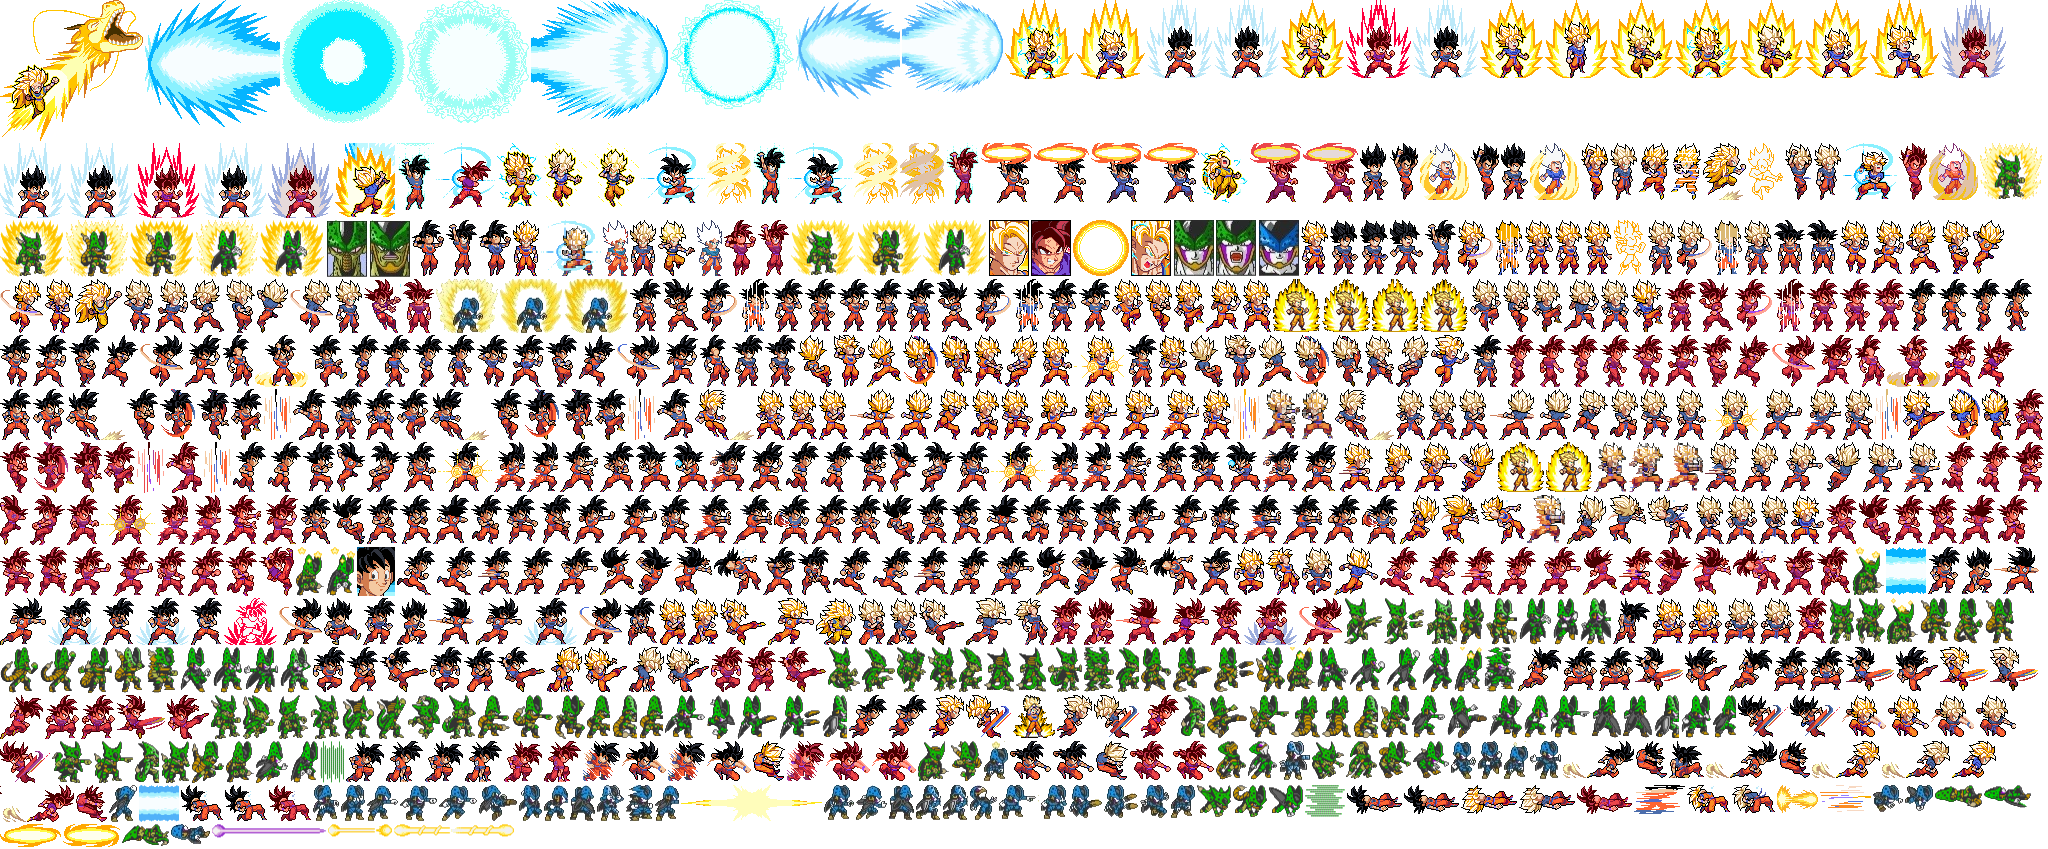
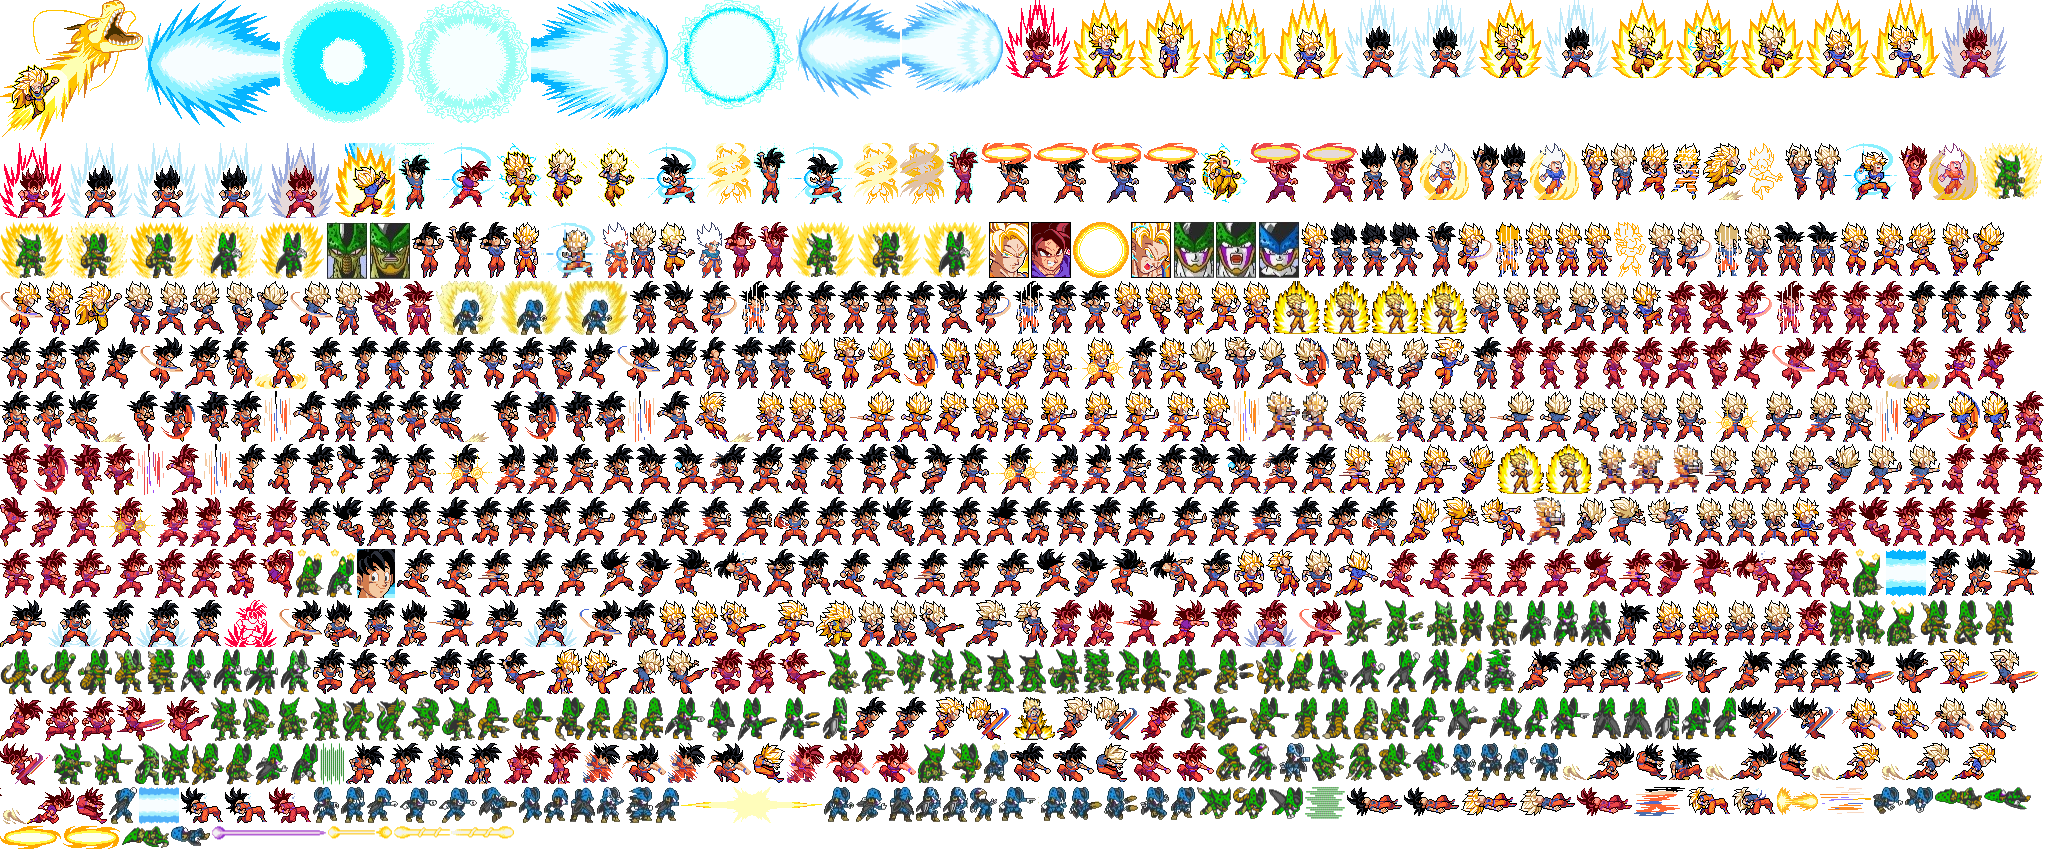
Auras filled: frames can be cut with their white glow sealed inside the flame outline (seal), used for the torn-gi Super Saiyan flames and the Kaioken aura, which were see-through where the outline had gaps

diff --git a/sheets.js b/sheets.js
@@ -82,7 +82,7 @@ function rawSheet(img) {
 // (so enclosed white like beam cores survives), trim, and work out the body anchor.
 // (hollow: all of the background colour goes, not just what the edges reach: an aura drawn as flames
 // round a white middle)
-function cutOut(sheet, [sx, sy, w, h], seed, hollow) {
+function cutOut(sheet, [sx, sy, w, h], seed, hollow, seal = 0) {
   const cv = document.createElement('canvas'); cv.width = w; cv.height = h;
   const cx = cv.getContext('2d', { willReadFrequently: true });
   cx.drawImage(sheet.canvas, sx, sy, w, h, 0, 0, w, h);
@@ -90,7 +90,21 @@ function cutOut(sheet, [sx, sy, w, h], seed, hollow) {
   const clear = new Uint8Array(w * h), st = [];
   // the background is white, unless the sheet says otherwise (then: anything close to its colour)
   const bg = sheet.bg, bgAt = bg ? (dd, k) => Math.abs(dd[k] - bg[0]) + Math.abs(dd[k + 1] - bg[1]) + Math.abs(dd[k + 2] - bg[2]) < 30 : isBg;
-  const push = (x, y) => { const i = y * w + x; if (!clear[i] && bgAt(d, i * 4)) { clear[i] = 1; st.push(i); } };
+  // seal: an aura's white glow inside a flame outline with small gaps in it. The fill from the edges may
+  // not pass within `seal` pixels of anything drawn (so it can't leak in through a gap), then grows back
+  // over the background it stopped short of
+  let wall = null;
+  if (seal) {
+    const drawn = new Uint8Array(w * h);
+    for (let i = 0; i < w * h; i++) drawn[i] = bgAt(d, i * 4) ? 0 : 1;
+    wall = drawn;
+    for (let k = 0; k < seal; k++) {
+      const next = wall.slice();
+      for (let i = 0; i < w * h; i++) if (wall[i]) { const x = i % w; if (x > 0) next[i - 1] = 1; if (x + 1 < w) next[i + 1] = 1; if (i >= w) next[i - w] = 1; if (i + w < w * h) next[i + w] = 1; }
+      wall = next;
+    }
+  }
+  const push = (x, y) => { const i = y * w + x; if (!clear[i] && bgAt(d, i * 4) && !(wall && wall[i])) { clear[i] = 1; st.push(i); } };
   if (sheet.keyed || hollow) for (let i = 0; i < w * h; i++) if (bgAt(d, i * 4)) clear[i] = 1;
   if (seed.includes('t')) for (let x = 0; x < w; x++) push(x, 0);
   if (seed.includes('b')) for (let x = 0; x < w; x++) push(x, h - 1);
@@ -100,6 +114,11 @@ function cutOut(sheet, [sx, sy, w, h], seed, hollow) {
     const i = st.pop(), x = i % w, y = (i / w) | 0;
     if (x + 1 < w) push(x + 1, y); if (x > 0) push(x - 1, y);
     if (y + 1 < h) push(x, y + 1); if (y > 0) push(x, y - 1);
+  }
+  for (let k = 0; k < seal; k++) {
+    const grow = [];
+    for (let i = 0; i < w * h; i++) if (!clear[i] && bgAt(d, i * 4)) { const x = i % w; if ((x > 0 && clear[i - 1]) || (x + 1 < w && clear[i + 1]) || (i >= w && clear[i - w]) || (i + w < w * h && clear[i + w])) grow.push(i); }
+    grow.forEach(i => clear[i] = 1);
   }
   // the sheet was a screenshot, so peel off the pale fringe left around each sprite
   for (let pass = 0; pass < 2; pass++) {
@@ -163,7 +182,7 @@ const Sheets = {
       if (r.w) w = Math.min(w, r.w);
       if (r.y) { y += r.y; h -= r.y; }
       if (r.h) h = Math.min(h, r.h);
-      const out = cutOut(this.sheets[sheet], [x, y, w, h], r.seed || 'tblr', r.hollow);
+      const out = cutOut(this.sheets[sheet], [x, y, w, h], r.seed || 'tblr', r.hollow, r.seal);
       if (r.ax != null) out.ax = r.ax * out.width;
       out.k = r.k || 1; // drawn this much bigger (a sheet drawn at a smaller size than the rest)
       this.cache.set(key, out);

diff --git a/data.js b/data.js
@@ -106,7 +106,7 @@ twins(['9.0', '9.1', '9.2', { id: '9.3', w: 31 }, '9.4', { id: '9.5', w: 31 }], 
 // the Kaioken's red flames (two frames), and the frames around them
 // (hollow: the white inside the flames is see-through, as it is on the sheet)
 // (solid: cut see-through, the middle of the flames looked patchy)
-const KAIO_AURA = [GB(288, 1281, 70, 78), GB(361, 1278, 70, 82)];
+const KAIO_AURA = [{ ...GB(288, 1281, 70, 78), seal: 4 }, { ...GB(361, 1278, 70, 82), seal: 4 }];
 const KAIO_STANCE = GB(441, 1310, 31, 48);
 // the moment the Kaioken bursts out: a white flash of him in a red outline (the sheet's frame, its white
 // middle kept: cut see-through, only broken scraps of the outline were left)
@@ -243,7 +243,7 @@ GOKU_BASE.transformQuick = nativeFr([TURN[2], TURN[3], TURN[4], TURN[5], TURN[6]
 // gold flames twice
 const SST = (x, y, w, h) => ({ sheet: 'ss', rect: [x, y, w, h] });
 const TORN_TURN = [SST(61, 131, 32, 56), SST(106, 131, 34, 56), SST(161, 127, 29, 60), SST(211, 128, 28, 59), SST(261, 130, 29, 57),
-  SST(311, 130, 29, 56), SST(364, 130, 36, 57), SST(417, 129, 51, 58), SST(489, 122, 45, 64), SST(559, 107, 67, 80), SST(637, 107, 65, 80)];
+  SST(311, 130, 29, 56), SST(364, 130, 36, 57), SST(417, 129, 51, 58), SST(489, 122, 45, 64), { ...SST(559, 107, 67, 80), seal: 2 }, { ...SST(637, 107, 65, 80), seal: 2 }];
 const GOKU_BASE_T = formAnims(GOKU_MOVES, 'torn');
 Object.assign(GOKU_BASE_T, {
   spirit: nativeFr([GBN(77, 1988, 37, 49), GBN(128, 1984, 32, 53), GBN(175, 1982, 31, 56), GBN(241, 1970, 39, 69)], { fps: 6, loop: false }),
@@ -251,7 +251,7 @@ Object.assign(GOKU_BASE_T, {
   // the Spirit Bomb that turns him Super Saiyan: as it lands the gold outline bursts off him and the
   // flames go up (the frames after the throw on the sheet)
   // (white hair, the gold swirl, then the gold flames in the air: the sheets' own frames)
-  // (the flames solid: cut see-through their middle looked patchy)
+  // (the flames solid, their white middle sealed in: see-through it looked patchy)
   spiritSsj: nativeFr([TORN_TURN[7], TORN_TURN[7], TORN_TURN[8], TORN_TURN[8], GB(463, 1958, 65, 82), GB(463, 1958, 65, 82)], { fps: 5, loop: false }),
   transform: nativeFr([TORN_TURN[0], TORN_TURN[0], ...TORN_TURN, TORN_TURN[10]], { fps: 8, loop: false }),
   transformQuick: nativeFr([...TORN_TURN.slice(3), TORN_TURN[10]], { fps: 9, loop: false }),

diff --git a/index.html b/index.html
@@ -40,29 +40,29 @@
 <body>
 <svg id="game"></svg>
 <div class="preload">a<b>a</b></div>
-<script src="frames.js?v=185"></script>
-<script src="gfx.js?v=185"></script>
-<script src="goku-forms.js?v=185"></script>
-<script src="data.js?v=185"></script>
-<script src="fx.js?v=185"></script>
-<script src="audio.js?v=185"></script>
-<script src="stage.js?v=185"></script>
+<script src="frames.js?v=186"></script>
+<script src="gfx.js?v=186"></script>
+<script src="goku-forms.js?v=186"></script>
+<script src="data.js?v=186"></script>
+<script src="fx.js?v=186"></script>
+<script src="audio.js?v=186"></script>
+<script src="stage.js?v=186"></script>
 <!-- the game itself, split by system; plain scripts sharing one global scope, so the order matters -->
-<script src="game/core.js?v=185"></script>
-<script src="game/input.js?v=185"></script>
-<script src="game/fighters.js?v=185"></script>
-<script src="game/combat.js?v=185"></script>
-<script src="game/fighter-update.js?v=185"></script>
-<script src="game/player.js?v=185"></script>
-<script src="game/boss-ai.js?v=185"></script>
-<script src="game/projectiles.js?v=185"></script>
-<script src="game/cinematics.js?v=185"></script>
-<script src="game/cutscenes.js?v=185"></script>
-<script src="game/menus.js?v=185"></script>
-<script src="game/results.js?v=185"></script>
-<script src="game/loop.js?v=185"></script>
-<script src="game/render.js?v=185"></script>
-<script src="game/main.js?v=185"></script>
-<script src="net.js?v=185"></script>
+<script src="game/core.js?v=186"></script>
+<script src="game/input.js?v=186"></script>
+<script src="game/fighters.js?v=186"></script>
+<script src="game/combat.js?v=186"></script>
+<script src="game/fighter-update.js?v=186"></script>
+<script src="game/player.js?v=186"></script>
+<script src="game/boss-ai.js?v=186"></script>
+<script src="game/projectiles.js?v=186"></script>
+<script src="game/cinematics.js?v=186"></script>
+<script src="game/cutscenes.js?v=186"></script>
+<script src="game/menus.js?v=186"></script>
+<script src="game/results.js?v=186"></script>
+<script src="game/loop.js?v=186"></script>
+<script src="game/render.js?v=186"></script>
+<script src="game/main.js?v=186"></script>
+<script src="net.js?v=186"></script>
 </body>
 </html>
